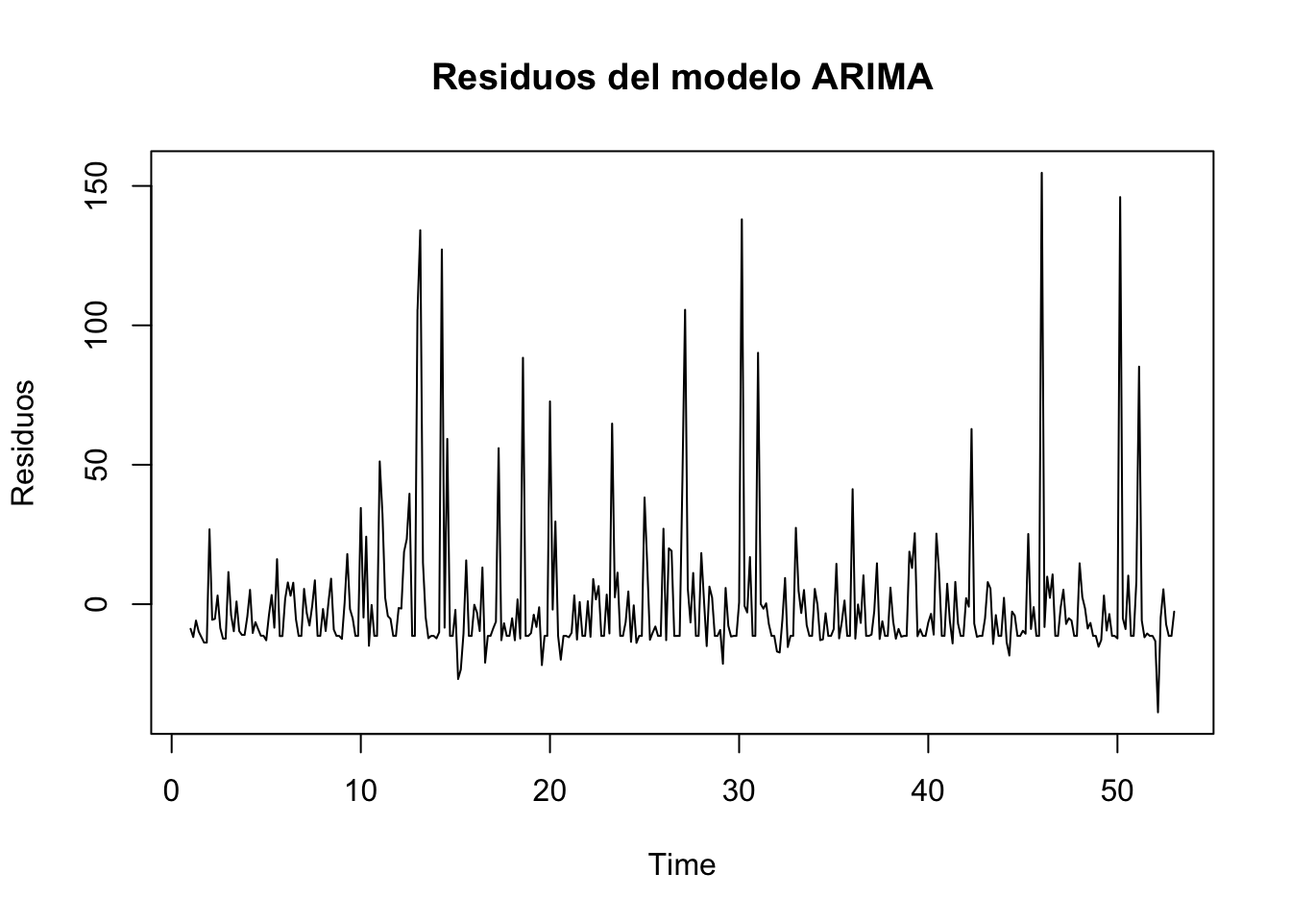
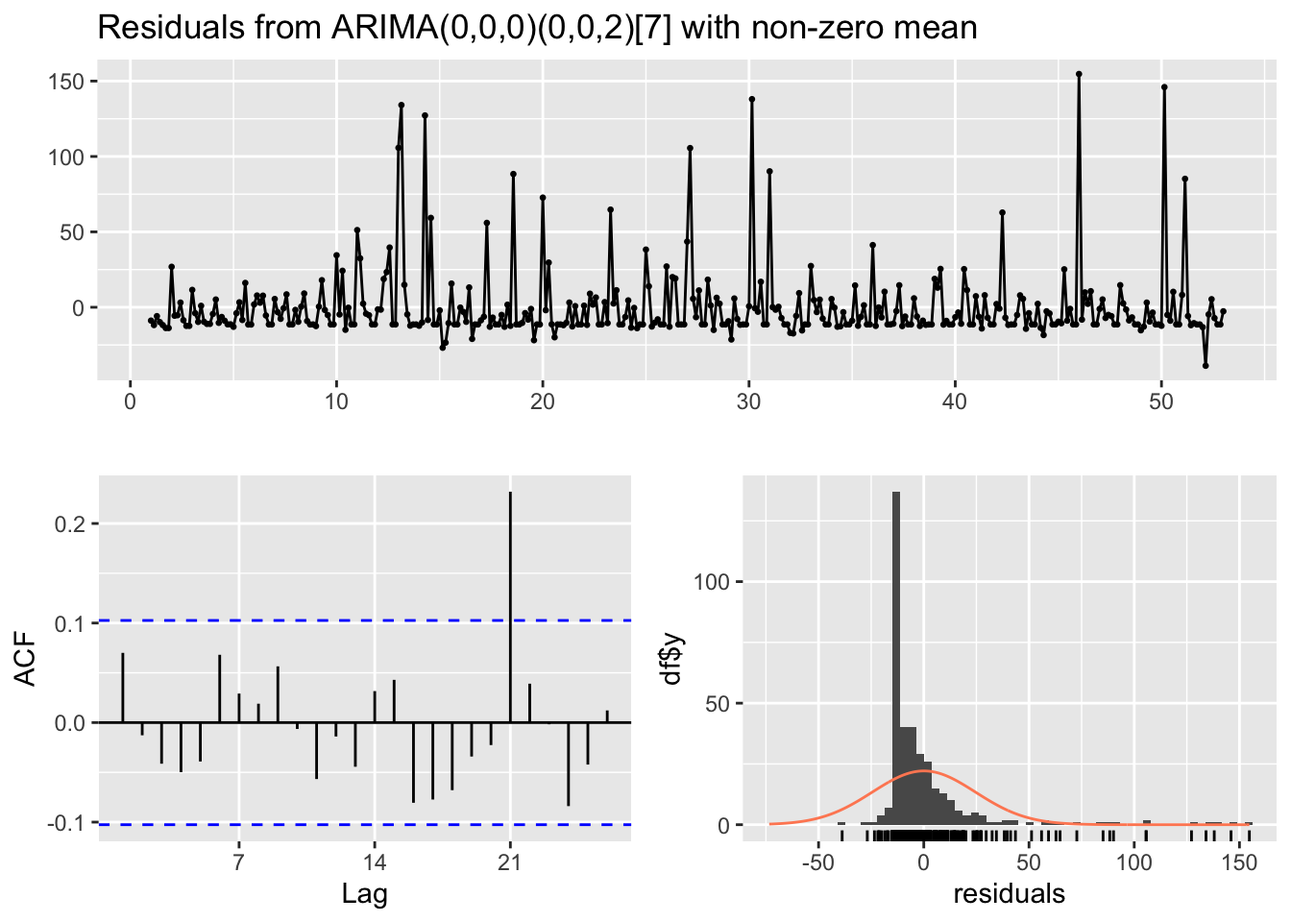
Ajustes en capítulo 4: ARIMA

diff --git a/docs/modelo-arima.html b/docs/modelo-arima.html
@@ -23,7 +23,7 @@
 <meta name="author" content="Ricardo Ortiz; Jaime Martinez, Jeisson Rodriguez" />
 
 
-<meta name="date" content="2025-05-18" />
+<meta name="date" content="2025-05-19" />
 
   <meta name="viewport" content="width=device-width, initial-scale=1" />
   <meta name="apple-mobile-web-app-capable" content="yes" />
@@ -172,6 +172,7 @@ code span.wa { color: #60a0b0; font-weight: bold; font-style: italic; } /* Warni
 <li class="chapter" data-level="4.2" data-path="modelo-arima.html"><a href="modelo-arima.html#análisis-de-los-residuos"><i class="fa fa-check"></i><b>4.2</b> Análisis de los residuos</a></li>
 <li class="chapter" data-level="4.3" data-path="modelo-arima.html"><a href="modelo-arima.html#punto-de-cambio-amoc"><i class="fa fa-check"></i><b>4.3</b> Punto de cambio (AMOC)</a></li>
 <li class="chapter" data-level="4.4" data-path="modelo-arima.html"><a href="modelo-arima.html#predicción"><i class="fa fa-check"></i><b>4.4</b> Predicción</a></li>
+<li class="chapter" data-level="4.5" data-path="modelo-arima.html"><a href="modelo-arima.html#conclusiones"><i class="fa fa-check"></i><b>4.5</b> Conclusiones</a></li>
 </ul></li>
 <li class="chapter" data-level="" data-path="references.html"><a href="references.html"><i class="fa fa-check"></i>References</a></li>
 <li class="divider"></li>
@@ -244,14 +245,24 @@ code span.wa { color: #60a0b0; font-weight: bold; font-style: italic; } /* Warni
 <h2><span class="header-section-number">4.2</span> Análisis de los residuos<a href="modelo-arima.html#análisis-de-los-residuos" class="anchor-section" aria-label="Anchor link to header"></a></h2>
 <p>Se requiere que los residuos del modelo —es decir, las diferencias entre los valores observados y los estimados— se comporten como ruido blanco. Esto significa que deben ser aleatorios, con media cero, varianza constante y sin correlación entre ellos. El cumplimiento de estos supuestos es esencial para garantizar la validez de las inferencias y pronósticos derivados del modelo ARIMA.</p>
 <p>Para comprobar si los residuos de un modelo ARIMA aplicado a ausentismo laboral, se comportan como ruido blanco se grafican los residuos y la función de autocorrelación ACF, como se muestra a continuación.</p>
-<div class="sourceCode" id="cb39"><pre class="sourceCode r"><code class="sourceCode r"><span id="cb39-1"><a href="modelo-arima.html#cb39-1" tabindex="-1"></a>residuos <span class="ot">&lt;-</span> <span class="fu">residuals</span>(modelo_arima)</span>
-<span id="cb39-2"><a href="modelo-arima.html#cb39-2" tabindex="-1"></a><span class="fu">plot</span>(residuos, <span class="at">main =</span> <span class="st">&quot;Residuos del modelo ARIMA&quot;</span>, <span class="at">ylab =</span> <span class="st">&quot;Residuos&quot;</span>)</span></code></pre></div>
+<div class="sourceCode" id="cb39"><pre class="sourceCode r"><code class="sourceCode r"><span id="cb39-1"><a href="modelo-arima.html#cb39-1" tabindex="-1"></a><span class="fu">checkresiduals</span>(modelo_arima)</span></code></pre></div>
 <p><img src="bookdown-demo_files/figure-html/unnamed-chunk-25-1.png" width="672" /></p>
-<div class="sourceCode" id="cb40"><pre class="sourceCode r"><code class="sourceCode r"><span id="cb40-1"><a href="modelo-arima.html#cb40-1" tabindex="-1"></a><span class="fu">acf</span>(residuos, <span class="at">lag.max =</span> <span class="dv">30</span>,  <span class="at">main =</span> <span class="st">&quot;ACF de los residuos&quot;</span>)</span></code></pre></div>
-<p><img src="bookdown-demo_files/figure-html/unnamed-chunk-25-2.png" width="672" />
-La función de autocorrelación (ACF): mide la correlación entre una serie de tiempo y sus valores retrasados. La autocorrelacion proporciona información de como una observación del ausentismo influye en las siguientes observaciones. Al trazar esta serie diferenciada, se observa un valor alto en el lag 0, lo cuál es normal pues se compara la serie con sigo misma y se espera que los residuos estén correlacionados con ellos mismos. Para determinar el valor de q en un modelo ARIMA, se puede mirar el gráfico ACF y buscar el primer retraso que tiene una correlación significativa (es decir en donde se sobrepasen las lineas punteadas). En esta grafica se observa un Lag relevante de 3, indicando que hay una correlación significativa entre los valores actuales y los de hace 3 periodos (3 semanas atras). Este valor es interesante y puede estar asociado a la rotación de turnos (diario, tarde, nocturno). En general, esto mostraría que hay información no explicada por el modelo.</p>
+<pre><code>## 
+##  Ljung-Box test
+## 
+## data:  Residuals from ARIMA(0,0,0)(0,0,2)[7] with non-zero mean
+## Q* = 9.8081, df = 12, p-value = 0.6328
+## 
+## Model df: 2.   Total lags used: 14</code></pre>
+<p>La función de autocorrelación (ACF): mide la correlación entre una serie de tiempo y sus valores retrasados. La autocorrelacion proporciona información de como una observación del ausentismo influye en las siguientes observaciones. Al trazar esta serie diferenciada, se observa un valor alto en el lag 0, lo cuál es normal pues se compara la serie con sigo misma y se espera que los residuos estén correlacionados con ellos mismos. Para determinar el valor de q en un modelo ARIMA, se puede mirar el gráfico ACF y buscar el primer retraso que tiene una correlación significativa (es decir en donde se sobrepasen las lineas punteadas). En esta grafica se observa un Lag relevante de 21, indicando que hay una correlación significativa entre los valores actuales y los de hace 3 periodos (3 semanas atras). Este valor es interesante y puede estar asociado a la rotación de turnos (diario, tarde, nocturno). En general, esto mostraría que hay información no explicada por el modelo.</p>
 <p>Para la validacion del modelo se analiza que los residuos sean <em>Ruido Blanco</em>, es decir, que los residuos se distribuyen normalmente y no hay autocorrelación entre ellos. Para ello, se aplica la prueba de Shapiro para normalidad y la de Ljung-Box para mirar si los residuales cumplen el supuesto de independencia o estan autocorrelacionados</p>
-<div class="sourceCode" id="cb41"><pre class="sourceCode r"><code class="sourceCode r"><span id="cb41-1"><a href="modelo-arima.html#cb41-1" tabindex="-1"></a><span class="fu">Box.test</span>(residuos, <span class="at">lag =</span> <span class="dv">10</span>, <span class="at">type =</span> <span class="st">&quot;Ljung-Box&quot;</span>)</span></code></pre></div>
+<div class="sourceCode" id="cb41"><pre class="sourceCode r"><code class="sourceCode r"><span id="cb41-1"><a href="modelo-arima.html#cb41-1" tabindex="-1"></a><span class="fu">hist</span>(<span class="fu">resid</span>(modelo_arima), <span class="at">main =</span> <span class="st">&quot; Histrograma de residuos&quot;</span>)</span></code></pre></div>
+<p><img src="bookdown-demo_files/figure-html/unnamed-chunk-26-1.png" width="672" /></p>
+<div class="sourceCode" id="cb42"><pre class="sourceCode r"><code class="sourceCode r"><span id="cb42-1"><a href="modelo-arima.html#cb42-1" tabindex="-1"></a><span class="fu">qqnorm</span>(<span class="fu">resid</span>(modelo_arima))</span>
+<span id="cb42-2"><a href="modelo-arima.html#cb42-2" tabindex="-1"></a><span class="fu">qqline</span>(<span class="fu">resid</span>(modelo_arima), <span class="at">col =</span> <span class="st">&quot;blue&quot;</span>)</span></code></pre></div>
+<p><img src="bookdown-demo_files/figure-html/unnamed-chunk-26-2.png" width="672" />
+El Q-Q plot muestra que los puntos están dispersos en las colas (por ejemplo, hacia el extremo superior), esto puede implicar que hay más valores extremos de lo que se esperaría bajo una normalidad perfecta, y por ende podría ser una señal de que los residuos no son normales, lo cual puede sugerir que el modelo ARIMA no está capturando completamente la dinámica de la serie temporal y que se podría necesitar ajustes adicionales.</p>
+<div class="sourceCode" id="cb43"><pre class="sourceCode r"><code class="sourceCode r"><span id="cb43-1"><a href="modelo-arima.html#cb43-1" tabindex="-1"></a><span class="fu">Box.test</span>(residuos, <span class="at">lag =</span> <span class="dv">10</span>, <span class="at">type =</span> <span class="st">&quot;Ljung-Box&quot;</span>)</span></code></pre></div>
 <pre><code>## 
 ##  Box-Ljung test
 ## 
@@ -267,53 +278,52 @@ La función de autocorrelación (ACF): mide la correlación entre una serie de t
 <div id="punto-de-cambio-amoc" class="section level2 hasAnchor" number="4.3">
 <h2><span class="header-section-number">4.3</span> Punto de cambio (AMOC)<a href="modelo-arima.html#punto-de-cambio-amoc" class="anchor-section" aria-label="Anchor link to header"></a></h2>
 <p>A continuación se usa la función cpt.mean() del paquete changepoint en R, específicamente con el método “AMOC” (At Most One Change), para detectar cambios en la media de una serie temporal.</p>
-<div class="sourceCode" id="cb43"><pre class="sourceCode r"><code class="sourceCode r"><span id="cb43-1"><a href="modelo-arima.html#cb43-1" tabindex="-1"></a>mval<span class="ot">&lt;-</span><span class="fu">cpt.mean</span>(ts_diaria,<span class="at">method =</span> <span class="st">&quot;AMOC&quot;</span>) </span>
-<span id="cb43-2"><a href="modelo-arima.html#cb43-2" tabindex="-1"></a><span class="fu">cpts</span>(mval)</span></code></pre></div>
+<div class="sourceCode" id="cb45"><pre class="sourceCode r"><code class="sourceCode r"><span id="cb45-1"><a href="modelo-arima.html#cb45-1" tabindex="-1"></a>mval<span class="ot">&lt;-</span><span class="fu">cpt.mean</span>(ts_diaria,<span class="at">method =</span> <span class="st">&quot;AMOC&quot;</span>) </span>
+<span id="cb45-2"><a href="modelo-arima.html#cb45-2" tabindex="-1"></a><span class="fu">cpts</span>(mval)</span></code></pre></div>
 <pre><code>## [1] 63</code></pre>
 <p>El resultado muestra que la serie ts_diaria tiene una ruptura (cambio estructural) en el valor medio en el dato número 63. Esto sugiere que antes y después de ese punto, los valores de la serie tienen medias significativamente diferentes. El método “AMOC” busca una única ruptura (At Most One Change), y detectó que la mejor ubicación para dividir la serie en dos segmentos con medias distintas es en el punto 63. A continuación se gráfica el resultado para ver el punto de ruptura.</p>
-<div class="sourceCode" id="cb45"><pre class="sourceCode r"><code class="sourceCode r"><span id="cb45-1"><a href="modelo-arima.html#cb45-1" tabindex="-1"></a><span class="fu">plot</span>(mval, <span class="at">type =</span> <span class="st">&quot;l&quot;</span>, <span class="at">cpt.col =</span> <span class="st">&quot;blue&quot;</span>, <span class="at">xlab =</span> <span class="st">&quot;Value&quot;</span>, <span class="at">cpt.width =</span> <span class="dv">4</span>, <span class="at">main =</span> <span class="st">&quot;default penalty&quot;</span>)</span></code></pre></div>
-<p><img src="bookdown-demo_files/figure-html/unnamed-chunk-28-1.png" width="672" /></p>
+<div class="sourceCode" id="cb47"><pre class="sourceCode r"><code class="sourceCode r"><span id="cb47-1"><a href="modelo-arima.html#cb47-1" tabindex="-1"></a><span class="fu">plot</span>(mval, <span class="at">type =</span> <span class="st">&quot;l&quot;</span>, <span class="at">cpt.col =</span> <span class="st">&quot;blue&quot;</span>, <span class="at">xlab =</span> <span class="st">&quot;Value&quot;</span>, <span class="at">cpt.width =</span> <span class="dv">4</span>, <span class="at">main =</span> <span class="st">&quot;default penalty&quot;</span>)</span></code></pre></div>
+<p><img src="bookdown-demo_files/figure-html/unnamed-chunk-29-1.png" width="672" /></p>
 <p>La gráfica muestra la serie con una línea vertical en el punto donde ocurre el cambio, y líneas horizontales indicando las medias antes y después. En este caso el valor 63 de la serie corresponde a la fecha: 2007-03-04, indicando un cambio significatoco en este día. Esta información puede ayudar a decidir si necesitas transformar o dividir la serie antes de ajustar un modelo ARIMA.</p>
 </div>
 <div id="predicción" class="section level2 hasAnchor" number="4.4">
 <h2><span class="header-section-number">4.4</span> Predicción<a href="modelo-arima.html#predicción" class="anchor-section" aria-label="Anchor link to header"></a></h2>
 <p>Estos son los datos de ausentismo laboral proyectados para los siguientes 12 días utilizando el paquete forecast para la serie diaria.</p>
-<div class="sourceCode" id="cb46"><pre class="sourceCode r"><code class="sourceCode r"><span id="cb46-1"><a href="modelo-arima.html#cb46-1" tabindex="-1"></a>pred<span class="ot">&lt;-</span><span class="fu">forecast</span>(ts_diaria,<span class="at">h=</span><span class="dv">12</span>)</span>
-<span id="cb46-2"><a href="modelo-arima.html#cb46-2" tabindex="-1"></a>pred</span></code></pre></div>
-<pre><code>##          Point Forecast        Lo 80    Hi 80     Lo 95    Hi 95
-## 53.14286      24.809061  -4.67089562 54.28902 -20.27664 69.89476
-## 53.28571      21.308872  -8.17108486 50.78883 -23.77683 66.39458
-## 53.42857      10.533910 -18.94604760 40.01387 -34.55179 55.61961
-## 53.57143      13.827451 -15.65250608 43.30741 -31.25825 58.91316
-## 53.71429      -1.257420 -30.73737741 28.22254 -46.34312 43.82828
-## 53.85714      -1.495569 -30.97552647 27.98439 -46.58127 43.59014
-## 54.00000      29.431127  -0.04883144 58.91109 -15.65458 74.51683
-## 54.14286      24.809061  -4.67089710 54.28902 -20.27664 69.89477
-## 54.28571      21.308872  -8.17108633 50.78883 -23.77683 66.39458
-## 54.42857      10.533910 -18.94604908 40.01387 -34.55180 55.61962
-## 54.57143      13.827451 -15.65250755 43.30741 -31.25826 58.91316
-## 54.71429      -1.257420 -30.73737889 28.22254 -46.34313 43.82829</code></pre>
-<div class="sourceCode" id="cb48"><pre class="sourceCode r"><code class="sourceCode r"><span id="cb48-1"><a href="modelo-arima.html#cb48-1" tabindex="-1"></a><span class="fu">plot</span>(pred, <span class="at">main=</span><span class="st">&quot; &quot;</span>, <span class="at">ylab=</span><span class="st">&quot;Horas&quot;</span>, <span class="at">col=</span><span class="st">&quot;deepskyblue&quot;</span>, <span class="at">xlab=</span><span class="st">&quot;Días&quot;</span>)</span>
-<span id="cb48-2"><a href="modelo-arima.html#cb48-2" tabindex="-1"></a><span class="fu">title</span>(<span class="at">main=</span><span class="st">&quot;Predicción de Ausentismo laboral&quot;</span>)</span></code></pre></div>
-<p><img src="bookdown-demo_files/figure-html/unnamed-chunk-30-1.png" width="672" /></p>
-<p>En esta grafica se especificar el horizonte de pronóstico de h periodos por delante para que se realicen las predicciones de ausentismo laboral. En este caso correspondiente a 12 días. En una análisis visual inicial, la predicción parace guardar concordancia con el pronóstico del resto de la serie.</p>
-<p>A continuación se hace un análisis de los valores atípicos en la serie</p>
-<p>La función tso() busca outliers que afecten la estructura de la serie, especialmente aquellos que pueden influir negativamente en el ajuste de modelos ARIMA. Identifica:</p>
+<div class="sourceCode" id="cb48"><pre class="sourceCode r"><code class="sourceCode r"><span id="cb48-1"><a href="modelo-arima.html#cb48-1" tabindex="-1"></a>pred<span class="ot">&lt;-</span><span class="fu">forecast</span>(modelo_arima, <span class="at">h=</span><span class="dv">12</span>, <span class="at">level =</span> <span class="dv">95</span>)</span>
+<span id="cb48-2"><a href="modelo-arima.html#cb48-2" tabindex="-1"></a>pred</span></code></pre></div>
+<pre><code>##          Point Forecast     Lo 95    Hi 95
+## 53.14286       20.83206 -27.31579 68.97990
+## 53.28571       12.74445 -35.40339 60.89229
+## 53.42857       12.98373 -35.16411 61.13157
+## 53.57143       11.91021 -36.23764 60.05805
+## 53.71429       11.38556 -36.76228 59.53341
+## 53.85714       11.38556 -36.76228 59.53341
+## 54.00000       12.01959 -36.12825 60.16743
+## 54.14286        9.06356 -39.32047 57.44759
+## 54.28571       13.35275 -35.03128 61.73677
+## 54.42857       14.62271 -33.76131 63.00674
+## 54.57143       13.04233 -35.34170 61.42636
+## 54.71429       12.51469 -35.86934 60.89871</code></pre>
+<div class="sourceCode" id="cb50"><pre class="sourceCode r"><code class="sourceCode r"><span id="cb50-1"><a href="modelo-arima.html#cb50-1" tabindex="-1"></a><span class="fu">plot</span>(pred, <span class="at">main=</span><span class="st">&quot; &quot;</span>, <span class="at">ylab=</span><span class="st">&quot;Horas&quot;</span>, <span class="at">col=</span><span class="st">&quot;deepskyblue&quot;</span>, <span class="at">xlab=</span><span class="st">&quot;Días&quot;</span>)</span>
+<span id="cb50-2"><a href="modelo-arima.html#cb50-2" tabindex="-1"></a><span class="fu">title</span>(<span class="at">main=</span><span class="st">&quot;Predicción de Ausentismo laboral&quot;</span>)</span></code></pre></div>
+<p><img src="bookdown-demo_files/figure-html/unnamed-chunk-31-1.png" width="672" /></p>
+<p>En esta grafica se especifica el horizonte de pronóstico de h periodos por delante para que se realicen las predicciones de ausentismo laboral. En este caso correspondiente a 12 días. En una análisis visual inicial, la predicción parace guardar concordancia con el pronóstico del resto de la serie.</p>
+<p>A continuación se hace un análisis de los valores atípicos en la serie, para lo cuál se hace uso de la función tso(), que busca outliers que afecten la estructura de la serie, especialmente aquellos que pueden influir negativamente en el ajuste de modelos ARIMA. Identifica:</p>
 <ul>
 <li>AO = Additive Outlier: un valor atípico puntual.</li>
 <li>LS = Level Shift: un cambio repentino y permanente en el nivel de la serie.</li>
 <li>TC = Temporary Change: un cambio brusco pero transitorio.</li>
 </ul>
-<div class="sourceCode" id="cb49"><pre class="sourceCode r"><code class="sourceCode r"><span id="cb49-1"><a href="modelo-arima.html#cb49-1" tabindex="-1"></a>dat.ts<span class="ot">&lt;-</span> <span class="fu">ts</span>(ts_diaria,<span class="at">frequency=</span><span class="dv">1</span>) </span>
-<span id="cb49-2"><a href="modelo-arima.html#cb49-2" tabindex="-1"></a>data.ts.outliers <span class="ot">&lt;-</span> <span class="fu">tso</span>(dat.ts)</span></code></pre></div>
+<div class="sourceCode" id="cb51"><pre class="sourceCode r"><code class="sourceCode r"><span id="cb51-1"><a href="modelo-arima.html#cb51-1" tabindex="-1"></a>dat.ts<span class="ot">&lt;-</span> <span class="fu">ts</span>(ts_diaria,<span class="at">frequency=</span><span class="dv">1</span>) </span>
+<span id="cb51-2"><a href="modelo-arima.html#cb51-2" tabindex="-1"></a>data.ts.outliers <span class="ot">&lt;-</span> <span class="fu">tso</span>(dat.ts)</span></code></pre></div>
 <pre><code>## Warning in locate.outliers.iloop(resid = resid, pars = pars, cval = cval, :
 ## stopped when &#39;maxit.iloop&#39; was reached
 ## Warning in locate.outliers.iloop(resid = resid, pars = pars, cval = cval, :
 ## stopped when &#39;maxit.iloop&#39; was reached</code></pre>
 <pre><code>## Warning in locate.outliers.oloop(y = y, fit = fit, types = types, cval = cval,
 ## : stopped when &#39;maxit.oloop = 4&#39; was reached</code></pre>
-<div class="sourceCode" id="cb52"><pre class="sourceCode r"><code class="sourceCode r"><span id="cb52-1"><a href="modelo-arima.html#cb52-1" tabindex="-1"></a><span class="fu">plot</span>(data.ts.outliers)</span></code></pre></div>
-<p><img src="bookdown-demo_files/figure-html/unnamed-chunk-31-1.png" width="672" /></p>
+<div class="sourceCode" id="cb54"><pre class="sourceCode r"><code class="sourceCode r"><span id="cb54-1"><a href="modelo-arima.html#cb54-1" tabindex="-1"></a><span class="fu">plot</span>(data.ts.outliers)</span></code></pre></div>
+<p><img src="bookdown-demo_files/figure-html/unnamed-chunk-32-1.png" width="672" /></p>
 <p>En el gráfico se observa:</p>
 <ul>
 <li><em>Línea gris</em>: serie original (ts_diaria), sin ajuste.</li>
@@ -322,6 +332,10 @@ La función de autocorrelación (ACF): mide la correlación entre una serie de t
 </ul>
 <p>En general se observa que hay múltiples picos atípicos detectados a lo largo de la serie, donde los puntos rojos indican que en esos días hubo valores que no siguen el comportamiento esperado por el modelo ARIMA. Estos valores han sido ajustados en la línea azul, suavizando la serie. Esto indica que la serie contiene eventos que podrían ser anómalos, errores de registro, o situaciones excepcionales (como ausencias masivas, festivos especiales, etc.).</p>
 <p>En el gráfico inferior se observa que varios outliers tienen efectos importantes y persistentes (altas barras).Esos valores distorsionan la dinámica general de la serie y deben considerarse al ajustar o interpretar un modelo de predicción.</p>
+</div>
+<div id="conclusiones" class="section level2 hasAnchor" number="4.5">
+<h2><span class="header-section-number">4.5</span> Conclusiones<a href="modelo-arima.html#conclusiones" class="anchor-section" aria-label="Anchor link to header"></a></h2>
+<p>El modelo ARIMA es una herramienta fundamental para el análisis de series temporales, ya que permite modelar y pronosticar variables que presentan patrones a lo largo del tiempo. Su estructura flexible, basada en componentes autorregresivos, de media móvil y diferenciación, lo hace adaptable a diversas situaciones. En este caso el ausentismo laboral no ocurre de forma aleatoria: puede estar influido por factores cíclicos, estacionales, o por comportamientos repetitivos a lo largo del tiempo (como más ausencias en invierno o al final de mes). El modelo permite capturar tendencias subyacentes, fluctuaciones cíclicas y dinámicas pasadas de manera efectiva, lo cual es crucial para comprender el comportamiento histórico de una variable y anticipar su evolución futura, se proyecta el futuro de manera cuantitativa y con intervalos de confianza, esto es crucial para anticipar cuándo se dará mayor ausentismo, preparar recursos humanos o personal de reemplazo y tomar decisiones de planificación con tiempo. Acá el modelo ARIMA es importante porque transforma los datos históricos de ausentismo en información procesable, predicciones útiles y mejoras en las decisiones organizacionales, pues permite entender la evolución del ausentismo y actuar antes de que afecte la operación de la empresa. En términos generales, el modelo ARIMA reduce la incertidumbre, optimiza recursos y mejora la eficiencia operativa, convirtiéndose en un aliado estratégico en entornos donde el tiempo y la previsión son factores críticos.</p>
 
 <p>.</p>
 

diff --git a/docs/conclusiones.html b/docs/conclusiones.html
@@ -4,18 +4,18 @@
 
   <meta charset="utf-8" />
   <meta http-equiv="X-UA-Compatible" content="IE=edge" />
-  <title>Page not found | Análisis de series temporales: Ausentismo laboral</title>
+  <title>Capítulo 5 Conclusiones | Análisis de series temporales: Ausentismo laboral</title>
   <meta name="description" content="Este es un ejemplo aplicado de análisis de series temporales usando la base de datos de ausentismo laboral disponible en UCI" />
   <meta name="generator" content="bookdown 0.43 and GitBook 2.6.7" />
 
-  <meta property="og:title" content="Page not found | Análisis de series temporales: Ausentismo laboral" />
+  <meta property="og:title" content="Capítulo 5 Conclusiones | Análisis de series temporales: Ausentismo laboral" />
   <meta property="og:type" content="book" />
   
   <meta property="og:description" content="Este es un ejemplo aplicado de análisis de series temporales usando la base de datos de ausentismo laboral disponible en UCI" />
   <meta name="github-repo" content="rstudio/bookdown-demo" />
 
   <meta name="twitter:card" content="summary" />
-  <meta name="twitter:title" content="Page not found | Análisis de series temporales: Ausentismo laboral" />
+  <meta name="twitter:title" content="Capítulo 5 Conclusiones | Análisis de series temporales: Ausentismo laboral" />
   
   <meta name="twitter:description" content="Este es un ejemplo aplicado de análisis de series temporales usando la base de datos de ausentismo laboral disponible en UCI" />
   
@@ -30,8 +30,8 @@
   <meta name="apple-mobile-web-app-status-bar-style" content="black" />
   
   
-
-
+<link rel="prev" href="modelo-arima.html"/>
+<link rel="next" href="references.html"/>
 <script src="libs/jquery-3.6.0/jquery-3.6.0.min.js"></script>
 <script src="https://cdn.jsdelivr.net/npm/fuse.js@6.4.6/dist/fuse.min.js"></script>
 <link href="libs/gitbook-2.6.7/css/style.css" rel="stylesheet" />
@@ -172,8 +172,8 @@ code span.wa { color: #60a0b0; font-weight: bold; font-style: italic; } /* Warni
 <li class="chapter" data-level="4.2" data-path="modelo-arima.html"><a href="modelo-arima.html#análisis-de-los-residuos"><i class="fa fa-check"></i><b>4.2</b> Análisis de los residuos</a></li>
 <li class="chapter" data-level="4.3" data-path="modelo-arima.html"><a href="modelo-arima.html#punto-de-cambio-amoc"><i class="fa fa-check"></i><b>4.3</b> Punto de cambio (AMOC)</a></li>
 <li class="chapter" data-level="4.4" data-path="modelo-arima.html"><a href="modelo-arima.html#predicción"><i class="fa fa-check"></i><b>4.4</b> Predicción</a></li>
-<li class="chapter" data-level="4.5" data-path="modelo-arima.html"><a href="modelo-arima.html#conclusiones"><i class="fa fa-check"></i><b>4.5</b> Conclusiones</a></li>
 </ul></li>
+<li class="chapter" data-level="5" data-path="conclusiones.html"><a href="conclusiones.html"><i class="fa fa-check"></i><b>5</b> Conclusiones</a></li>
 <li class="chapter" data-level="" data-path="references.html"><a href="references.html"><i class="fa fa-check"></i>References</a></li>
 <li class="divider"></li>
 <li><a href="https://github.com/rstudio/bookdown" target="blank">Published with bookdown</a></li>
@@ -195,19 +195,20 @@ code span.wa { color: #60a0b0; font-weight: bold; font-style: italic; } /* Warni
           <div class="page-inner">
 
             <section class="normal" id="section-">
-<div id="page-not-found" class="section level1">
-<h1>Page not found</h1>
-<p>The page you requested cannot be found (perhaps it was moved or renamed).</p>
-<p>You may want to try searching to find the page's new location, or use
-the table of contents to find the page you are looking for.</p>
+<div id="conclusiones" class="section level1 hasAnchor" number="5">
+<h1><span class="header-section-number">Capítulo 5</span> Conclusiones<a href="conclusiones.html#conclusiones" class="anchor-section" aria-label="Anchor link to header"></a></h1>
+<p>El modelo ARIMA es una herramienta fundamental para el análisis de series temporales, ya que permite modelar y pronosticar variables que presentan patrones a lo largo del tiempo. Su estructura flexible, basada en componentes autorregresivos, de media móvil y diferenciación, lo hace adaptable a diversas situaciones. En este caso el ausentismo laboral no ocurre de forma aleatoria: puede estar influido por factores cíclicos, estacionales, o por comportamientos repetitivos a lo largo del tiempo (como más ausencias en invierno o al final de mes). El modelo permite capturar tendencias subyacentes, fluctuaciones cíclicas y dinámicas pasadas de manera efectiva, lo cual es crucial para comprender el comportamiento histórico de una variable y anticipar su evolución futura, se proyecta el futuro de manera cuantitativa y con intervalos de confianza, esto es crucial para anticipar cuándo se dará mayor ausentismo, preparar recursos humanos o personal de reemplazo y tomar decisiones de planificación con tiempo. Acá el modelo ARIMA es importante porque transforma los datos históricos de ausentismo en información procesable, predicciones útiles y mejoras en las decisiones organizacionales, pues permite entender la evolución del ausentismo y actuar antes de que afecte la operación de la empresa. En términos generales, el modelo ARIMA reduce la incertidumbre, optimiza recursos y mejora la eficiencia operativa, convirtiéndose en un aliado estratégico en entornos donde el tiempo y la previsión son factores críticos.</p>
+
+<p>.</p>
+
 </div>
             </section>
 
           </div>
         </div>
       </div>
-
-
+<a href="modelo-arima.html" class="navigation navigation-prev " aria-label="Previous page"><i class="fa fa-angle-left"></i></a>
+<a href="references.html" class="navigation navigation-next " aria-label="Next page"><i class="fa fa-angle-right"></i></a>
     </div>
   </div>
 <script src="libs/gitbook-2.6.7/js/app.min.js"></script>
@@ -238,7 +239,7 @@ gitbook.start({
     "size": 2
   },
   "edit": {
-    "link": "https://github.com/rstudio/bookdown-demo/edit/master/%s",
+    "link": "https://github.com/rstudio/bookdown-demo/edit/master/04-application.Rmd",
     "text": "Edit"
   },
   "history": {

diff --git a/docs/ausentismo-laboral.html b/docs/ausentismo-laboral.html
@@ -23,7 +23,7 @@
 <meta name="author" content="Ricardo Ortiz; Jaime Martinez, Jeisson Rodriguez" />
 
 
-<meta name="date" content="2025-05-18" />
+<meta name="date" content="2025-05-19" />
 
   <meta name="viewport" content="width=device-width, initial-scale=1" />
   <meta name="apple-mobile-web-app-capable" content="yes" />
@@ -172,6 +172,7 @@ code span.wa { color: #60a0b0; font-weight: bold; font-style: italic; } /* Warni
 <li class="chapter" data-level="4.2" data-path="modelo-arima.html"><a href="modelo-arima.html#análisis-de-los-residuos"><i class="fa fa-check"></i><b>4.2</b> Análisis de los residuos</a></li>
 <li class="chapter" data-level="4.3" data-path="modelo-arima.html"><a href="modelo-arima.html#punto-de-cambio-amoc"><i class="fa fa-check"></i><b>4.3</b> Punto de cambio (AMOC)</a></li>
 <li class="chapter" data-level="4.4" data-path="modelo-arima.html"><a href="modelo-arima.html#predicción"><i class="fa fa-check"></i><b>4.4</b> Predicción</a></li>
+<li class="chapter" data-level="4.5" data-path="modelo-arima.html"><a href="modelo-arima.html#conclusiones"><i class="fa fa-check"></i><b>4.5</b> Conclusiones</a></li>
 </ul></li>
 <li class="chapter" data-level="" data-path="references.html"><a href="references.html"><i class="fa fa-check"></i>References</a></li>
 <li class="divider"></li>
@@ -197,7 +198,7 @@ code span.wa { color: #60a0b0; font-weight: bold; font-style: italic; } /* Warni
 <div id="header">
 <h1 class="title">Análisis de series temporales: Ausentismo laboral</h1>
 <p class="author"><em>Ricardo Ortiz; Jaime Martinez, Jeisson Rodriguez</em></p>
-<p class="date"><em>2025-05-18</em></p>
+<p class="date"><em>2025-05-19</em></p>
 </div>
 <div id="ausentismo-laboral" class="section level1 hasAnchor" number="1">
 <h1><span class="header-section-number">Capítulo 1</span> AUSENTISMO LABORAL<a href="ausentismo-laboral.html#ausentismo-laboral" class="anchor-section" aria-label="Anchor link to header"></a></h1>

diff --git a/docs/análisis-de-los-datos.html b/docs/análisis-de-los-datos.html
@@ -23,7 +23,7 @@
 <meta name="author" content="Ricardo Ortiz; Jaime Martinez, Jeisson Rodriguez" />
 
 
-<meta name="date" content="2025-05-18" />
+<meta name="date" content="2025-05-19" />
 
   <meta name="viewport" content="width=device-width, initial-scale=1" />
   <meta name="apple-mobile-web-app-capable" content="yes" />
@@ -172,6 +172,7 @@ code span.wa { color: #60a0b0; font-weight: bold; font-style: italic; } /* Warni
 <li class="chapter" data-level="4.2" data-path="modelo-arima.html"><a href="modelo-arima.html#análisis-de-los-residuos"><i class="fa fa-check"></i><b>4.2</b> Análisis de los residuos</a></li>
 <li class="chapter" data-level="4.3" data-path="modelo-arima.html"><a href="modelo-arima.html#punto-de-cambio-amoc"><i class="fa fa-check"></i><b>4.3</b> Punto de cambio (AMOC)</a></li>
 <li class="chapter" data-level="4.4" data-path="modelo-arima.html"><a href="modelo-arima.html#predicción"><i class="fa fa-check"></i><b>4.4</b> Predicción</a></li>
+<li class="chapter" data-level="4.5" data-path="modelo-arima.html"><a href="modelo-arima.html#conclusiones"><i class="fa fa-check"></i><b>4.5</b> Conclusiones</a></li>
 </ul></li>
 <li class="chapter" data-level="" data-path="references.html"><a href="references.html"><i class="fa fa-check"></i>References</a></li>
 <li class="divider"></li>

diff --git a/docs/predicciones.html b/docs/predicciones.html
@@ -23,7 +23,7 @@
 <meta name="author" content="Ricardo Ortiz; Jaime Martinez, Jeisson Rodriguez" />
 
 
-<meta name="date" content="2025-05-18" />
+<meta name="date" content="2025-05-19" />
 
   <meta name="viewport" content="width=device-width, initial-scale=1" />
   <meta name="apple-mobile-web-app-capable" content="yes" />
@@ -172,6 +172,7 @@ code span.wa { color: #60a0b0; font-weight: bold; font-style: italic; } /* Warni
 <li class="chapter" data-level="4.2" data-path="modelo-arima.html"><a href="modelo-arima.html#análisis-de-los-residuos"><i class="fa fa-check"></i><b>4.2</b> Análisis de los residuos</a></li>
 <li class="chapter" data-level="4.3" data-path="modelo-arima.html"><a href="modelo-arima.html#punto-de-cambio-amoc"><i class="fa fa-check"></i><b>4.3</b> Punto de cambio (AMOC)</a></li>
 <li class="chapter" data-level="4.4" data-path="modelo-arima.html"><a href="modelo-arima.html#predicción"><i class="fa fa-check"></i><b>4.4</b> Predicción</a></li>
+<li class="chapter" data-level="4.5" data-path="modelo-arima.html"><a href="modelo-arima.html#conclusiones"><i class="fa fa-check"></i><b>4.5</b> Conclusiones</a></li>
 </ul></li>
 <li class="chapter" data-level="" data-path="references.html"><a href="references.html"><i class="fa fa-check"></i>References</a></li>
 <li class="divider"></li>

diff --git a/docs/references.html b/docs/references.html
@@ -23,7 +23,7 @@
 <meta name="author" content="Ricardo Ortiz; Jaime Martinez, Jeisson Rodriguez" />
 
 
-<meta name="date" content="2025-05-18" />
+<meta name="date" content="2025-05-19" />
 
   <meta name="viewport" content="width=device-width, initial-scale=1" />
   <meta name="apple-mobile-web-app-capable" content="yes" />
@@ -172,6 +172,7 @@ code span.wa { color: #60a0b0; font-weight: bold; font-style: italic; } /* Warni
 <li class="chapter" data-level="4.2" data-path="modelo-arima.html"><a href="modelo-arima.html#análisis-de-los-residuos"><i class="fa fa-check"></i><b>4.2</b> Análisis de los residuos</a></li>
 <li class="chapter" data-level="4.3" data-path="modelo-arima.html"><a href="modelo-arima.html#punto-de-cambio-amoc"><i class="fa fa-check"></i><b>4.3</b> Punto de cambio (AMOC)</a></li>
 <li class="chapter" data-level="4.4" data-path="modelo-arima.html"><a href="modelo-arima.html#predicción"><i class="fa fa-check"></i><b>4.4</b> Predicción</a></li>
+<li class="chapter" data-level="4.5" data-path="modelo-arima.html"><a href="modelo-arima.html#conclusiones"><i class="fa fa-check"></i><b>4.5</b> Conclusiones</a></li>
 </ul></li>
 <li class="chapter" data-level="" data-path="references.html"><a href="references.html"><i class="fa fa-check"></i>References</a></li>
 <li class="divider"></li>
